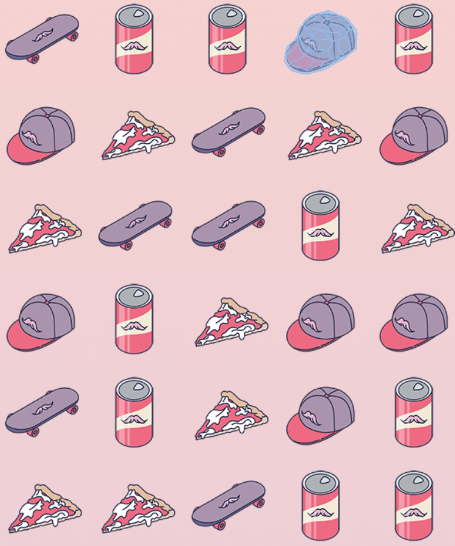
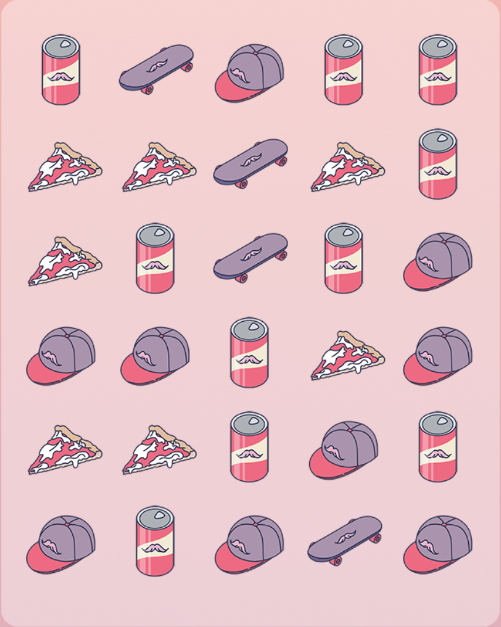
commit changes

diff --git a/gpu.py b/gpu.py
@@ -1,0 +1,21 @@
+import torch
+
+# Verifica la disponibilità della GPU e imposta il dispositivo
+device = torch.device("cuda" if torch.cuda.is_available() else "cpu")
+
+
+# Dimensione dell'array
+array_size = 1000000
+
+# Genera un tensore casuale su GPU
+gpu_tensor = torch.rand(array_size, device=device)
+
+# Esegui la somma
+result = torch.sum(gpu_tensor)
+
+# Trasferisci il risultato dalla GPU alla CPU se necessario
+result_cpu = result.cpu().item()
+
+# Stampare il risultato
+print("Risultato della somma sulla GPU:", result_cpu)
+print(device)

diff --git a/Tools/screen_help.py b/Tools/screen_help.py
@@ -66,8 +66,8 @@ if ( __name__ == '__main__'):        # Controlla se è eseguita direttamente
     for i in range(attesa):
         print(f"Screen tra {attesa-i} secondi...")
         time.sleep(1)
-
-    path = take_screenshot(886,360,455,546,debug=True,fullScreen=False, label='[HELP]')
+    #x = 870, y = 330, height s= 490, width = 620
+    path = take_screenshot(866,333,501,627,debug=True,fullScreen=False, label='[HELP]')
     immagine = cv2.imread(path)
 
     # Verifica che l'immagine sia stata caricata correttamente

diff --git a/Main.py b/Main.py
@@ -116,7 +116,8 @@ while (consecutive_error < 100):
 
     # Cattura screenshot
     label = 'kz32'
-    screenBot.take_screenshot(870, 330, 490, 620, label)
+    # pc lucas     screenBot.take_screenshot(870, 330, 490, 620, label)
+    screenBot.take_screenshot(866,333,501,627, label)
     img_name = f"Screenshot/screenshot{label}.png"
     immagine = cv2.imread(img_name)
     if immagine is None:

diff --git a/Package/analyseBot.py b/Package/analyseBot.py
@@ -184,8 +184,11 @@ if (__name__ == "__main__"):
 
     inizio = time.time()
 
-    nome_file_immagine = "Screenshot/Screenshot.png"
 
+    nome_file_immagine = "Screenshot/Screenshot.png"
+    nome_file_immagine = "Screenshot/screenshot[HELP].png"
+    
+    
     immagine = cv2.imread(nome_file_immagine)
 
     # Verifica che l'immagine sia stata caricata correttamente
